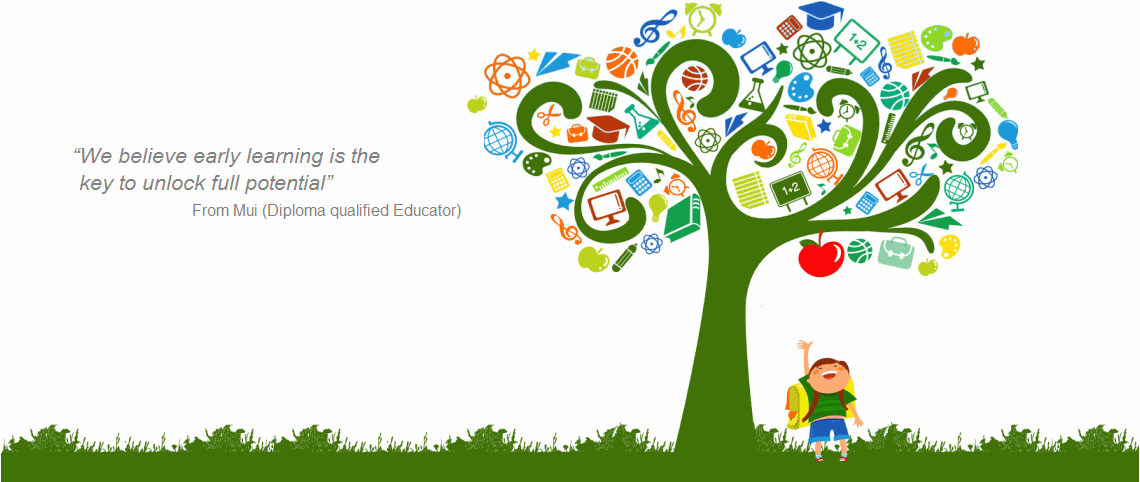
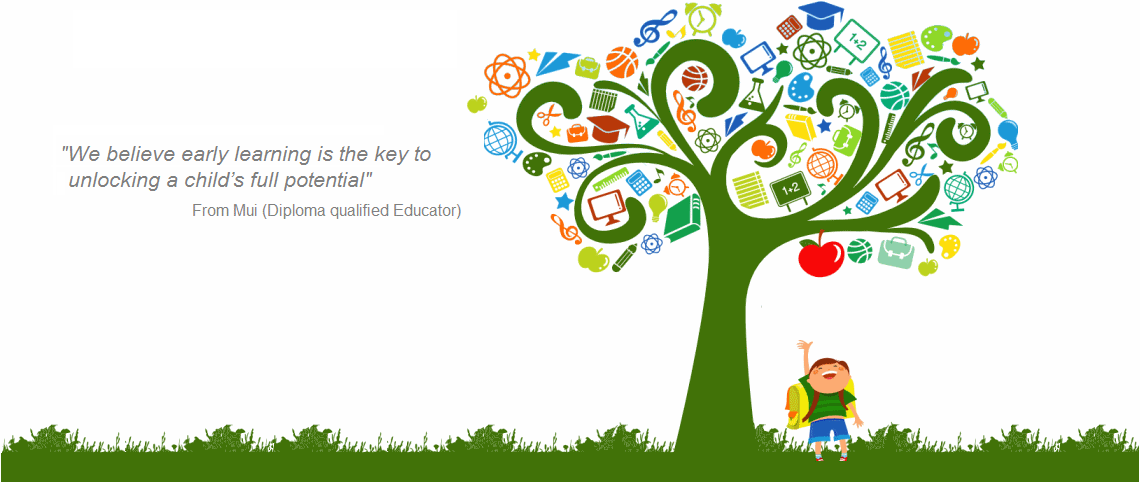
update content

Changed region(s): [[0.0614, 0.2801, 0.3991, 0.4046]]

diff --git a/app/views/services/services.html b/app/views/services/services.html
@@ -5,11 +5,11 @@
     <div class="col-lg-4">
         <h3>Family day care</h3>
         <p>
-        We offer education and care services by registered educator with diploma qualification and 3 years of 
-        experience in a long day care centre. Our educator is supported by Integricare Family Day Care St George. 
+        We offer education and care services provided by a registered educator with diploma qualification and 3 years 
+        of experience in a long day care centre. Our educator is supported by Integricare Family Day Care St George. 
         The environment is setup for early childhood learning to create an atmosphere that is safe, welcoming and 
-        engaging. It helps the children develop their skills, interests and become independent  and confident 
-        learners. We are approved to administer Child Care Benefit (CCB) and Child Care Rebate (CCR).
+        engaging. We help children develop skills, interests and become independent and confident learners. We are 
+        approved to administer Child Care Benefit (CCB) and Child Care Rebate (CCR).
         </p>
         <table class="service-table">
             <tr>
@@ -26,9 +26,9 @@
     <div class="col-lg-4">
         <h3>Before/after school care</h3>
         <p>
-        Our long and flexible opening hours between 7:30AM to 6:00PM Monday to Friday with a great location of just 
-        behind the Bexley Public School make it the ideal place to establish a before/after school care service in 
-        the area. To find out more, come and speak to our experience educator.
+        We provide long and flexible opening hours between 7:30AM to 6:00PM Monday to Friday. With a great location 
+        just behind Bexley Public School, we ideally situated to provide before/after school care service in the area. 
+        To find out more, come and speak to our experience educator.
         </p>    
         <table class="service-table">
             <tr>
@@ -49,10 +49,10 @@
     <div class="col-lg-4">
         <h3>Vocation care</h3>
         <p>
-        At Pineapple Club, we accommodate for parent who require child care for a non-casual, ad hoc basis during 
-        the day or after working hours. Saturday and Sunday care can be arranged. We have a strong and fun 
-        educational activities that your child will enjoy. So contact us to discuss about your needs, we are 
-        confident that our experience educator will be able to assist you.
+        At Pineapple Club, we accommodate parents who require child care on a non-casual, ad hoc basis during the day 
+        or after working hours. Saturday and Sunday care can also be arranged. We have a strong and fun educational 
+        activity program that your child will enjoy. Contact us to discuss your needs, we are confident that our 
+        experienced educator will be able to assist you.
         </p>        
         <table class="service-table">
             <tr>

diff --git a/app/views/philosophy/philosophy.html b/app/views/philosophy/philosophy.html
@@ -2,27 +2,27 @@
 <div>
     <h2>Philosophy</h2>
     <p>
-    We believe that as children develop, their early experiences in life are embedded into the architecture of 
-    their behaviours. This can make a profound consequences on how their lives unfold. At Pineapple Club Family Day
-    Care, we provide a loving, caring and safe environment to promote positive behaviours to help them developing social skills that can make a huge different for their futures.
+    We believe that as children develop, their early experiences in life are embedded into the architecture of their behavior. 
+    This can have profound consequences on how their lives unfold. At Pineapple Club Family Day Care, we provide a loving, 
+    caring and safe environment to promote positive behavior to help children develop social skills that can make a huge 
+    difference to their futures.
     </p>
 
     <p>
-    The children are encouraged to treat each other with respect and dignity regardless of their culture, 
-    language and home experience.
+    Children are encouraged to treat each other with respect and dignity regardless of their culture, language and home 
+    experience.
     </p>
 
     <p>
-    We believe that every child is different in their own special way, through the ongoing observations, 
-    our activities are tailored to every child’s specific needs to fit their current skills and to expand to areas 
-    of potential. We believe that children learn through plays so the activities are designed to be enjoyable and  
-    educational that assist them with the language, problem solving, motor skill all together with independence and 
-    social and emotional development.
+    We believe that every child is different in their own special way. Through constant observation and refinement, our 
+    activities are tailored to every child’s specific needs to fit their current skills and to expand their areas of potential. 
+    We believe that children learn through playing, so our activities are designed to be enjoyable and educational and assist 
+    them with language, problem solving, motor skills and also help promote independence and social and emotional development.
     </p>
 
     <p>
-    We acknowledge that parents always want the best for the child and so do we, the parent’s idea and suggestion 
-    are valued highly. Parents are encouraged to anticipate in the decision making, daily programs and long term 
-    goals for the child.
+    We acknowledge that parents always want the best for their child and highly value and encourage parents to provide feedback, 
+    ideas, and any other suggestions. Parents are encouraged to anticipate in the decision making, daily programs and long term
+    goals of their child.
     </p>
 </div>

diff --git a/app/views/home.html b/app/views/home.html
@@ -3,9 +3,9 @@
     <div class="row">
         <div class="col-lg-8">
             <h2 id="home_h2"><img src="/images/welcome.png"  alt="welcome"/>Welcome</h2>
-            <p>Pineapple Club Family Day Care is a Family Day Care (FDC) registered with Integricare Family Day Care St George.
-            Our FDC is operated by a trained educator who has years of experience in long day care centre with diploma qualification.
-            We are approved to administer Child Care Benefit (CCB) and Child Care Rebate (CCR)
+            <p>Pineapple Club is a Family Day Care (FDC) registered with Integricare Family Day Care St George.
+            Our FDC is operated by a trained educator who has years of experience in child care with diploma qualification.
+            We are approved to administer Child Care Benefits (CCB) and Child Care Rebate (CCR)
             </p>            
 
             <h3>Our FDC key features</h3>
@@ -13,11 +13,10 @@
                 <ul>
                     <li>90% of the space is setup for childcare service</li>
                     <li>Educator is supported by high quality FDC organisation Integricare with every need</li>
-                    <li>Children receive more attentions due to a low child-educator ratio. Children will better develop and bond with educator</li>
-                    <li>Our diploma qualified educator 3 years of experience providing care in long day care centre</li>
+                    <li>Your child will receive maximum attention due to our low child-educator ratio. They will better develop and bond with their educator</li>
+                    <li>Our diploma qualified educator has over 3 years of experience providing care in a well-established long day care centre</li>
                     <li>Strong educational programs</li>
                     <li>Activity report is provided to parent on daily basis</li>
-                    <li>Live photo of the child is sent to parent</li>
                 </ul>
             </p>
         </div>

diff --git a/app/views/contact/contact-page.html b/app/views/contact/contact-page.html
@@ -4,8 +4,11 @@
 
         <h2>Location</h2>
 
-        <p>We are close to Rockdale train station and behind Bexley Public School. The location is suitable for families who commute to work by train. 
-        With plenty of free street car parks, drive in to drop off the child then take a train to work is made easy.</p>
+        <p>
+        We are close to Rockdale train station and behind Bexley Public School. Our location is suitable for families 
+        who commute to work by train. With plenty of free street parking, a lot of parents find it convenient that they 
+        can drop off their child in the morning and then take a train to work.
+        </p>
 
         <div id="mp_map_canvas" pcd-google-map></div>
     </div>
